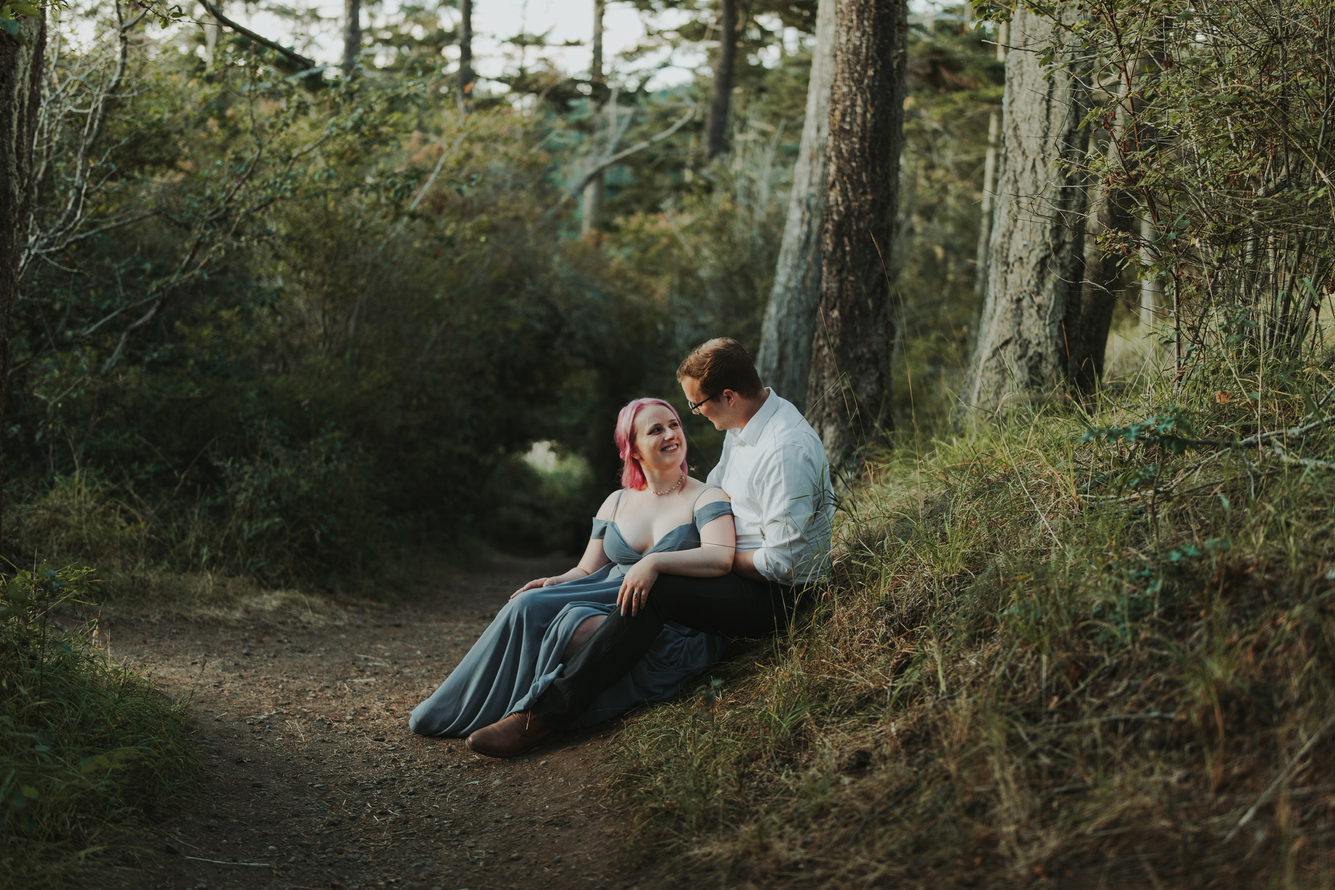
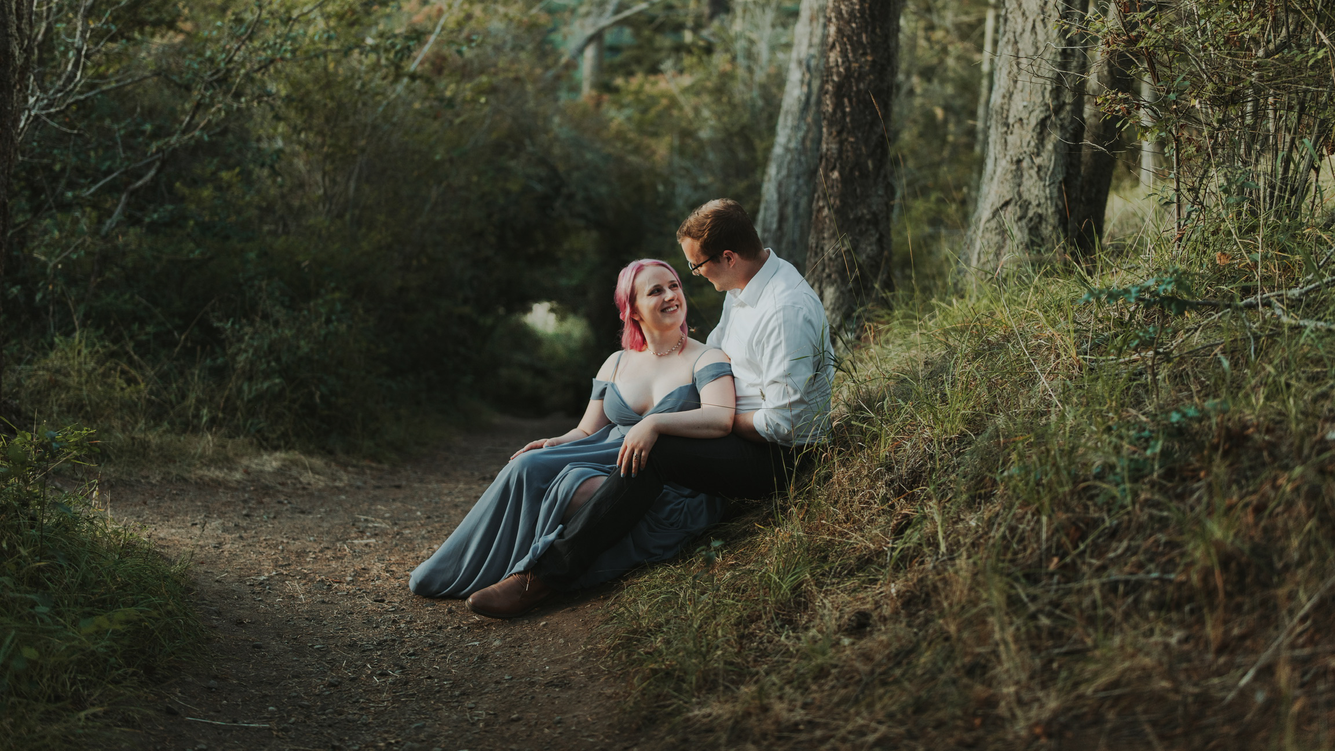
Add wedding details

diff --git a/index.html b/index.html
@@ -17,8 +17,8 @@
             </div>
 
             <div class="sections">
-                <a href="#our-story">Our Story</a>
                 <a href="#the-wedding">The Wedding</a>
+                <a href="#our-story">Our Story</a>
                 <a href="#our-crew">Our Crew</a>
                 <a href="#gift-registry">Gift Registry</a>
                 <a href="#faqs">FAQs</a>
@@ -31,14 +31,52 @@
 
         <div id="main" class="section"></div>
 
-        <!-- <hr /> -->
+        <div id="the-wedding" class="section">
+            <h1>The Wedding</h1>
 
-        <div class="section">
-            <h1>Becky & Daniel's Fairytale Wedding</h1>
-            <h2>The Disneyland Hotel | 10.28.23</h2>
+            <h2>Countdown</h2>
+            <div class="countdown">
+                <div class="segment days">
+                    <div class="value">0</div>
+                    <div class="label">Days</div>
+                </div>
+
+                <div class="segment hours">
+                    <div class="value">0</div>
+                    <div class="label">Hours</div>
+                </div>
+
+                <div class="segment minutes">
+                    <div class="value">0</div>
+                    <div class="label">Minutes</div>
+                </div>
+
+                <div class="segment seconds">
+                    <div class="value">0</div>
+                    <div class="label">Seconds</div>
+                </div>
+            </div>
+
+            <h2>Itinerary</h2>
+            <div class="itinerary">
+                <img src="images/rose-court-garden.jpg" />
+
+                <div class="event">
+                    <div class="name">Ceremony</div>
+                    <div class="description">The ceremony will be held in the Rose Court Garden at the Disneyland Hotel. We are excited for you to join us while we make our Happily Ever After official.</div>
+                </div>
+
+                <div class="event">
+                    <div class="name">Cocktail Hour</div>
+                    <div class="description">The cocktail hour will be held in the Adventure Lawn at the Disneyland Hotel.</div>
+                </div>
+
+                <div class="event">
+                    <div class="name">Reception</div>
+                    <div class="description">The reception will be held in the Something Room at the Disneyland Hotel.</div>
+                </div>
+            </div>
         </div>
-
-        <!-- <hr /> -->
 
         <div id="our-story" class="section">
             <h1>Our Story</h1>
@@ -47,18 +85,6 @@
             <p>Donec gravida pulvinar nunc interdum lacinia. Cras nec sodales augue. Pellentesque sit amet massa maximus, feugiat velit at, cursus purus. Praesent luctus risus ut ex porta, id venenatis tortor porta. Interdum et malesuada fames ac ante ipsum primis in faucibus. Sed non ligula a tellus facilisis commodo sit amet consectetur ipsum. Phasellus quis viverra dolor. Mauris ante urna, dignissim non faucibus quis, cursus vitae massa. Quisque ornare nisl sit amet ligula interdum, non bibendum ex facilisis. Quisque volutpat erat augue, eu malesuada dui tincidunt vel.</p>
             <p>Aenean nec neque sed neque ullamcorper interdum. Mauris viverra commodo scelerisque. Mauris vulputate, odio sed vulputate malesuada, leo libero dapibus enim, ornare efficitur risus arcu eget erat. Aliquam erat volutpat. Nulla facilisis odio eu nisl sollicitudin mattis. Fusce urna eros, blandit in sapien vitae, laoreet laoreet ligula. Donec a euismod leo, eu consectetur mauris. Aliquam mollis tellus non nisi sagittis euismod. Praesent viverra tellus lacus, sollicitudin sollicitudin odio tincidunt vel. Fusce lacinia lacinia turpis, quis egestas mauris dignissim a. Nunc eu diam vel ipsum pellentesque convallis et et sem. Morbi ut gravida mi.</p>
         </div>
-
-        <!-- <hr /> -->
-
-        <div id="the-wedding" class="section">
-            <h1>The Wedding</h1>
-
-            <p>Lorem ipsum dolor sit amet, consectetur adipiscing elit. Nullam condimentum aliquet velit, eu venenatis massa interdum a. Aenean vel ultricies enim. In ac tempus justo, ut imperdiet velit. Praesent sed augue non magna ultrices tempus. Aenean tristique suscipit massa eu malesuada. Etiam viverra elit id odio vulputate molestie sit amet a sem. Sed commodo pharetra mauris, sit amet vestibulum elit egestas vel. Integer eleifend lorem arcu, non ullamcorper ex varius sed. Aliquam consequat sagittis massa consequat semper. Aliquam sit amet aliquam augue, non euismod odio. Suspendisse auctor id ex in cursus. Nam vulputate non turpis a tincidunt. Quisque tempus lectus eu enim hendrerit sollicitudin. Duis tempus iaculis massa quis pellentesque. Ut gravida erat sit amet libero dictum blandit.</p>
-            <p>Donec gravida pulvinar nunc interdum lacinia. Cras nec sodales augue. Pellentesque sit amet massa maximus, feugiat velit at, cursus purus. Praesent luctus risus ut ex porta, id venenatis tortor porta. Interdum et malesuada fames ac ante ipsum primis in faucibus. Sed non ligula a tellus facilisis commodo sit amet consectetur ipsum. Phasellus quis viverra dolor. Mauris ante urna, dignissim non faucibus quis, cursus vitae massa. Quisque ornare nisl sit amet ligula interdum, non bibendum ex facilisis. Quisque volutpat erat augue, eu malesuada dui tincidunt vel.</p>
-            <p>Aenean nec neque sed neque ullamcorper interdum. Mauris viverra commodo scelerisque. Mauris vulputate, odio sed vulputate malesuada, leo libero dapibus enim, ornare efficitur risus arcu eget erat. Aliquam erat volutpat. Nulla facilisis odio eu nisl sollicitudin mattis. Fusce urna eros, blandit in sapien vitae, laoreet laoreet ligula. Donec a euismod leo, eu consectetur mauris. Aliquam mollis tellus non nisi sagittis euismod. Praesent viverra tellus lacus, sollicitudin sollicitudin odio tincidunt vel. Fusce lacinia lacinia turpis, quis egestas mauris dignissim a. Nunc eu diam vel ipsum pellentesque convallis et et sem. Morbi ut gravida mi.</p>
-        </div>
-
-        <!-- <hr /> -->
 
         <div id="our-crew" class="section">
             <h1>Our Crew</h1>
@@ -126,32 +152,21 @@
             </div>
         </div>
 
-        <!-- <hr /> -->
-
         <div id="gift-registry" class="section">
             <h1>Gift Registry</h1>
 
-            <iframe src="https://www.zola.com/registry/beckyanddaniel2023?preview=true"></iframe>
+            <a class="zola-registry-embed" href="www.zola.com/wedding/beckyanddaniel2023" data-registry-key="beckyanddaniel2023">Our Zola Wedding Registry</a>
+            <script>!function(e,t,n){var s,a=e.getElementsByTagName(t)[0];e.getElementById(n)||(s=e.createElement(t),s.id=n,s.async=!0,s.src="https://widget.zola.com/js/widget.js",a.parentNode.insertBefore(s,a))}(document,"script","zola-wjs");</script>
         </div>
-
-        <!-- <hr /> -->
 
         <div id="faqs" class="section">
             <h1>Frequently Asked Questions</h1>
-
-            <p>Lorem ipsum dolor sit amet, consectetur adipiscing elit. Nullam condimentum aliquet velit, eu venenatis massa interdum a. Aenean vel ultricies enim. In ac tempus justo, ut imperdiet velit. Praesent sed augue non magna ultrices tempus. Aenean tristique suscipit massa eu malesuada. Etiam viverra elit id odio vulputate molestie sit amet a sem. Sed commodo pharetra mauris, sit amet vestibulum elit egestas vel. Integer eleifend lorem arcu, non ullamcorper ex varius sed. Aliquam consequat sagittis massa consequat semper. Aliquam sit amet aliquam augue, non euismod odio. Suspendisse auctor id ex in cursus. Nam vulputate non turpis a tincidunt. Quisque tempus lectus eu enim hendrerit sollicitudin. Duis tempus iaculis massa quis pellentesque. Ut gravida erat sit amet libero dictum blandit.</p>
-            <p>Donec gravida pulvinar nunc interdum lacinia. Cras nec sodales augue. Pellentesque sit amet massa maximus, feugiat velit at, cursus purus. Praesent luctus risus ut ex porta, id venenatis tortor porta. Interdum et malesuada fames ac ante ipsum primis in faucibus. Sed non ligula a tellus facilisis commodo sit amet consectetur ipsum. Phasellus quis viverra dolor. Mauris ante urna, dignissim non faucibus quis, cursus vitae massa. Quisque ornare nisl sit amet ligula interdum, non bibendum ex facilisis. Quisque volutpat erat augue, eu malesuada dui tincidunt vel.</p>
-            <p>Aenean nec neque sed neque ullamcorper interdum. Mauris viverra commodo scelerisque. Mauris vulputate, odio sed vulputate malesuada, leo libero dapibus enim, ornare efficitur risus arcu eget erat. Aliquam erat volutpat. Nulla facilisis odio eu nisl sollicitudin mattis. Fusce urna eros, blandit in sapien vitae, laoreet laoreet ligula. Donec a euismod leo, eu consectetur mauris. Aliquam mollis tellus non nisi sagittis euismod. Praesent viverra tellus lacus, sollicitudin sollicitudin odio tincidunt vel. Fusce lacinia lacinia turpis, quis egestas mauris dignissim a. Nunc eu diam vel ipsum pellentesque convallis et et sem. Morbi ut gravida mi.</p>
+            <h2>Coming soon!</h2>
         </div>
-
-        <!-- <hr /> -->
 
         <div id="rsvp" class="section">
             <h1>RSVP</h1>
-
-            <p>Coming soon!</p>
+            <h2>Coming soon!</h2>
         </div>
-
-        <!-- <hr /> -->
     </body>
 </html>

diff --git a/styles/main.css b/styles/main.css
@@ -88,29 +88,32 @@ body {
 #main {
     min-height: 800px;
     height: 100vh;
-    background-image: url('../images/main-cropped.jpg');
+    background-image: url('../images/main.jpg');
     background-size: cover;
     background-position: center;
 }
 
 .section {
     scroll-margin-top: 80px;
-    padding-bottom: 80px;
+    padding: 80px 0;
 }
 
 .section:nth-child(even) {
-    background-color: #f5c9d047;
+    background-color: #ffeef2;
 }
 
 .section h1 {
     text-align: center;
     font-family: 'Satisfy', cursive;
-    font-size: 36px;
-    padding: 60px 0;
+    font-size: 48px;
+    margin-bottom: 80px;
+    color: #092570;
 }
 
 .section h2 {
     text-align: center;
+    margin-bottom: 20px;
+    font-size: 32px;
 }
 
 .section p {
@@ -118,13 +121,45 @@ body {
     padding: 0 180px;
 }
 
-hr {
-    height: 30px;
-    margin: 60px 0;
-    background-image: url('../images/divider.svg');
-    background-position: center;
-    background-repeat: no-repeat;
-    border: 0;
+.countdown {
+    display: flex;
+    justify-content: center;
+    margin-bottom: 60px;
+}
+
+.countdown .segment {
+    width: 150px;
+    text-align: center;
+}
+
+.countdown .segment .value {
+    font-size: 50px;
+}
+
+.countdown .segment .label {
+    font-size: 20px;
+}
+
+.itinerary {
+    display: flex;
+    justify-content: center;
+    align-items: center;
+    margin: 0 40px;
+}
+
+.itinerary img {
+    height: 400px;
+}
+
+.itinerary .event {
+    flex: 1;
+    text-align: center;
+    margin-left: 20px;
+}
+
+.itinerary .event .name {
+    font-size: 20px;
+    font-weight: 700;
 }
 
 .person-group {
@@ -164,4 +199,15 @@ hr {
     font-size: 16px;
     margin-top: 16px;
     font-style: italic;
+}
+
+.faq {
+    padding: 0 120px;
+    margin-bottom: 40px;
+    font-size: 20px;
+    text-align: center;
+}
+
+.faq .question {
+    font-weight: 700;
 }

diff --git a/scripts/main.js b/scripts/main.js
@@ -1,4 +1,4 @@
-this.window.addEventListener('scroll', function() {
+this.window.addEventListener('scroll', function () {
     var topBarClassList = this.document.querySelector('.top-bar').classList;
     var scrolledClass = 'is-scrolled';
 
@@ -8,3 +8,27 @@ this.window.addEventListener('scroll', function() {
         topBarClassList.add(scrolledClass);
     }
 });
+
+var countdownDate = new Date('Oct 28, 2023 17:00:00').getTime();
+var countdownInterval = setInterval(function () {
+    var now = new Date().getTime();
+    var distance = countdownDate - now;
+
+    if (distance < 0) {
+        clearInterval(countdownInterval);
+    } else {
+        var days = Math.floor(distance / (1000 * 60 * 60 * 24));
+        var hours = Math.floor((distance % (1000 * 60 * 60 * 24)) / (1000 * 60 * 60));
+        var minutes = Math.floor((distance % (1000 * 60 * 60)) / (1000 * 60));
+        var seconds = Math.floor((distance % (1000 * 60)) / 1000);
+
+        this.document.querySelector('.countdown .days .value').innerHTML = days;
+        this.document.querySelector('.countdown .hours .value').innerHTML = hours;
+        this.document.querySelector('.countdown .minutes .value').innerHTML = minutes;
+        this.document.querySelector('.countdown .seconds .value').innerHTML = seconds;
+        this.document.querySelector('.countdown .days .label').innerHTML = days === 1 ? 'Day' : 'Days';
+        this.document.querySelector('.countdown .hours .label').innerHTML = hours === 1 ? 'Hour' : 'Hours';
+        this.document.querySelector('.countdown .minutes .label').innerHTML = minutes === 1 ? 'Minute' : 'Minutes';
+        this.document.querySelector('.countdown .seconds .label').innerHTML = seconds === 1 ? 'Second' : 'Seconds';
+    }
+}, 1000);
